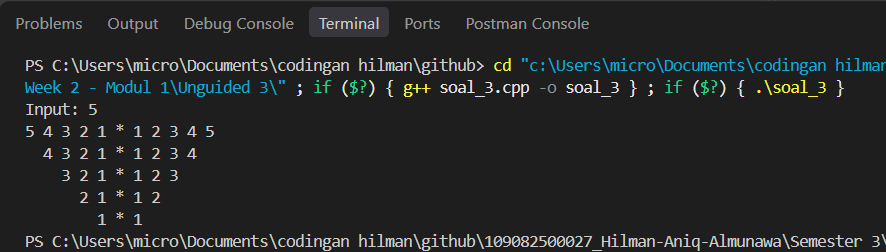
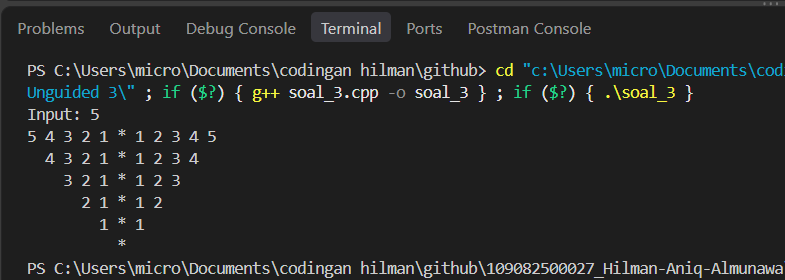
Laprak Hilman

Changed region(s): [[0.0, 0.2222, 1.0, 0.8889], [0.0, 0.0, 1.0, 0.1667], [0.0306, 0.9167, 1.0, 1.0]]

diff --git a/Semester 3/Week 2 - Modul 1/Unguided 3/soal_3.cpp b/Semester 3/Week 2 - Modul 1/Unguided 3/soal_3.cpp
@@ -7,21 +7,25 @@ int main(){
     cout << "Input: ";
     cin >> n;
 
-    for(int i=n; i>=1; i--){
-        
-        for(int j=n; j>i; j--)
+    for(int i = n; i >= 1; i--){
+        for(int j = n; j > i; j--)
             cout << "  ";
 
-        for(int j=i; j>=1; j--)
+        for(int j = i; j >= 1; j--)
             cout << j << " ";
 
         cout << "* ";
 
-        for(int j=1; j<=i; j++)
+        for(int j = 1; j <= i; j++)
             cout << j << " ";
 
         cout << endl;
     }
+
+    for(int j = 0; j < n; j++)
+        cout << "  ";
+
+    cout << "*";
 
     return 0;
 }
